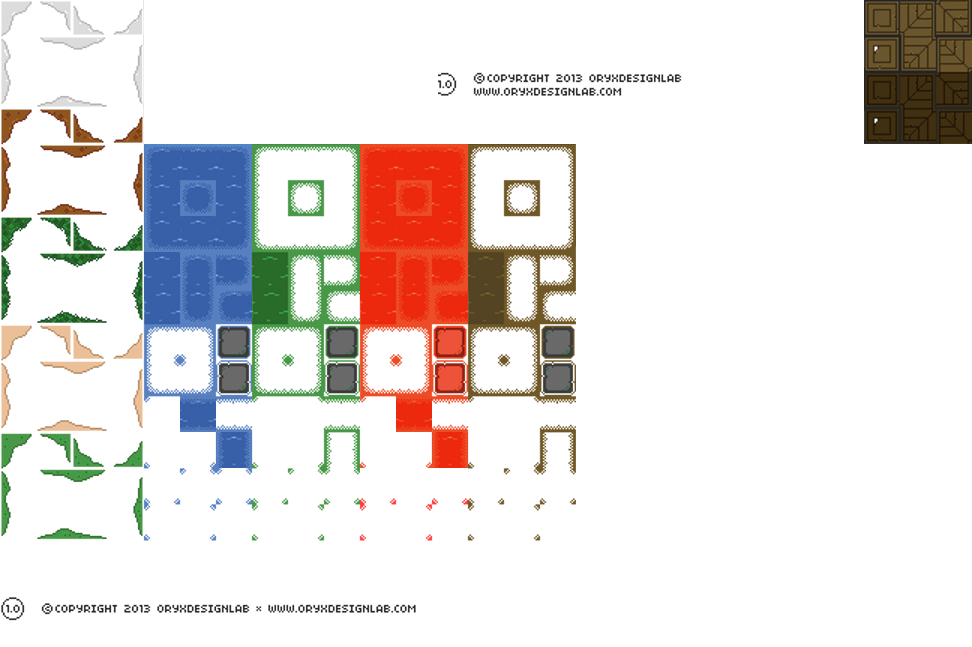
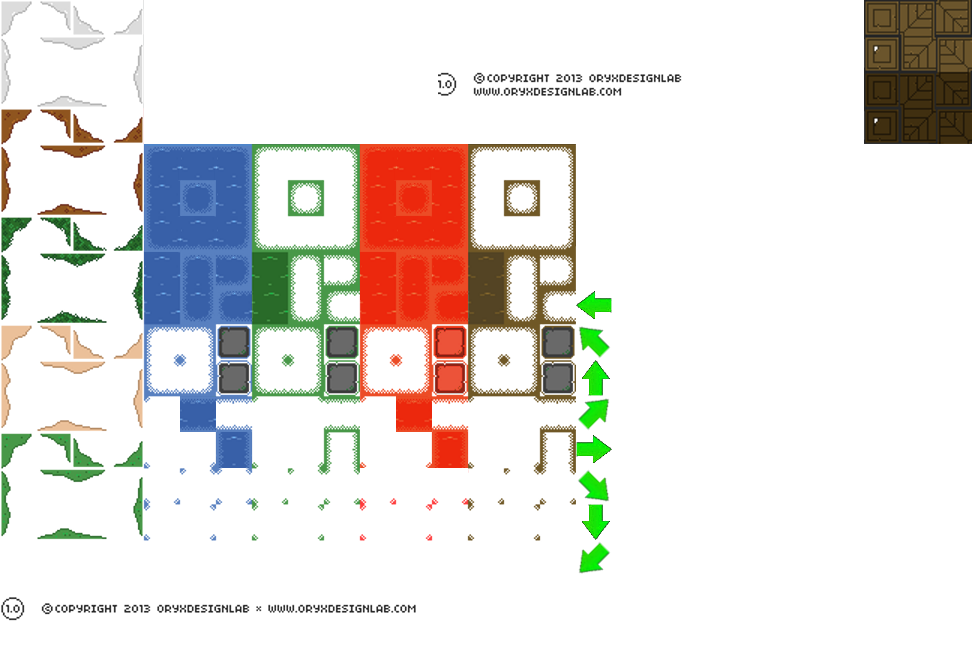
choose direction with mouse

Changed region(s): [[0.5864, 0.4328, 0.6481, 0.8964]]

diff --git a/util.cpp b/util.cpp
@@ -42,6 +42,21 @@ int RandomGen::getRandom(const string& shuffleId, int min, int max) {
   return ret;
 }
 
+string getCardinalName(Dir d) {
+  switch (d) {
+    case Dir::N: return "north";
+    case Dir::S: return "south";
+    case Dir::E: return "east";
+    case Dir::W: return "west";
+    case Dir::NE: return "north-east";
+    case Dir::NW: return "north-weast";
+    case Dir::SE: return "south-east";
+    case Dir::SW: return "south-west";
+  }
+  FAIL << int(d);
+  return "";
+}
+
 int RandomGen::getRandom(const vector<double>& weights, double r) {
   double sum = 0;
   for (double elem : weights)
@@ -335,28 +350,28 @@ pair<Vec2, Vec2> Vec2::approxL1() const {
   return make_pair(Vec2(sgn(x, x), sgn(y,y)), Vec2(sgn(x, y), sgn(y, x)));
 }
 
-string Vec2::getBearing() const {
+Vec2 Vec2::getBearing() const {
   double ang = atan2(y, x) / 3.14159265359 * 180 / 45;
   if (ang < 0)
     ang += 8;
   if (ang < 0.5 || ang >= 7.5)
-    return "east";
+    return Vec2(1, 0);
   if (ang >= 0.5 && ang < 1.5)
-    return "south-east";
+    return Vec2(1, 1);
   if (ang >= 1.5 && ang < 2.5)
-    return "south";
+    return Vec2(0, 1);
   if (ang >= 2.5 && ang < 3.5)
-    return "south-west";
+    return Vec2(-1, 1);
   if (ang >= 3.5 && ang < 4.5)
-    return "west";
+    return Vec2(-1, 0);
   if (ang >= 4.5 && ang < 5.5)
-    return "north-west";
+    return Vec2(-1, -1);
   if (ang >= 5.5 && ang < 6.5)
-    return "north";
+    return Vec2(0, -1);
   if (ang >= 6.5 && ang < 7.5)
-    return "north-east";
+    return Vec2(1, -1);
   FAIL << ang;
-  return "";
+  return Vec2(0, 0);
 }
 
 Rectangle::Rectangle(int _w, int _h) : px(0), py(0), kx(_w), ky(_h), w(_w), h(_h) {

diff --git a/window_view.cpp b/window_view.cpp
@@ -1774,10 +1774,35 @@ Optional<int> reverseIndexHeight(const vector<View::ListElem>& options, int heig
 }
 
 Optional<Vec2> WindowView::chooseDirection(const string& message) {
-  showMessage(message);
-  refreshScreen();
   do {
+    showMessage(message);
     BlockingEvent event = readkey();
+    if (event.type == BlockingEvent::MOUSE_MOVE || event.type == BlockingEvent::MOUSE_LEFT) {
+      if (auto pos = getHighlightedTile()) {
+        refreshScreen(false);
+        int numArrow = 0;
+        Vec2 middle = mapLayout->getAllTiles(maxLevelBounds).middle();
+        if (pos == middle)
+          continue;
+        Vec2 dir = (*pos - middle).getBearing();
+        switch (dir.getCardinalDir()) {
+          case Dir::N: numArrow = 2; break;
+          case Dir::S: numArrow = 6; break;
+          case Dir::E: numArrow = 4; break;
+          case Dir::W: numArrow = 0; break;
+          case Dir::NE: numArrow = 3; break;
+          case Dir::NW: numArrow = 1; break;
+          case Dir::SE: numArrow = 5; break;
+          case Dir::SW: numArrow = 7; break;
+        }
+        Vec2 wpos = mapLayout->projectOnScreen(middle + dir);
+        drawSprite(wpos.x, wpos.y, 16 * 36, (8 + numArrow) * 36, 36, 36, tiles[4]);
+        drawAndClearBuffer();
+        if (event.type == BlockingEvent::MOUSE_LEFT)
+          return dir;
+      }
+    } else
+    refreshScreen();
     if (event.type == BlockingEvent::KEY)
       switch (event.key->code) {
         case Keyboard::Up:

diff --git a/creature_factory.cpp b/creature_factory.cpp
@@ -489,7 +489,8 @@ class VillageElder : public Creature {
       }
       string message = MessageBuffer::important(q.first->getMessage());
       if (const Location* loc = q.first->getLocation()) {
-        message += " You need to head " + (loc->getBounds().middle() - getPosition()).getBearing() + " to find it.";
+        message += " You need to head " + 
+          getCardinalName((loc->getBounds().middle() - getPosition()).getBearing().getCardinalDir()) + " to find it.";
         who->learnLocation(loc);
       }
       who->privateMessage(message);
@@ -519,7 +520,7 @@ class VillageElder : public Creature {
         if (l->hasName() && l != getLevel()->getLocation(getPosition())) {
           Vec2 dir = l->getBounds().middle() - getPosition();
           string dist = dir.lengthD() > 150 ? "far" : "close";
-          string bearing = dir.getBearing();
+          string bearing = getCardinalName(dir.getBearing().getCardinalDir());
           who->privateMessage("\"There is a " + l->getName() + " " + dist + " in the " + bearing + "\"");
           who->privateMessage("\"" + l->getDescription() + "\"");
           return;

diff --git a/util.h b/util.h
@@ -82,7 +82,7 @@ class Vec2 {
   double lengthD() const;
   Vec2 shorten() const;
   pair<Vec2, Vec2> approxL1() const;
-  string getBearing() const;
+  Vec2 getBearing() const;
   bool isCardinal4() const;
   Dir getCardinalDir() const;
 
@@ -93,6 +93,8 @@ class Vec2 {
   vector<Vec2> neighbors4(bool shuffle = false) const;
   static vector<Vec2> corners();
 };
+
+string getCardinalName(Dir d);
 
 namespace std {
 
